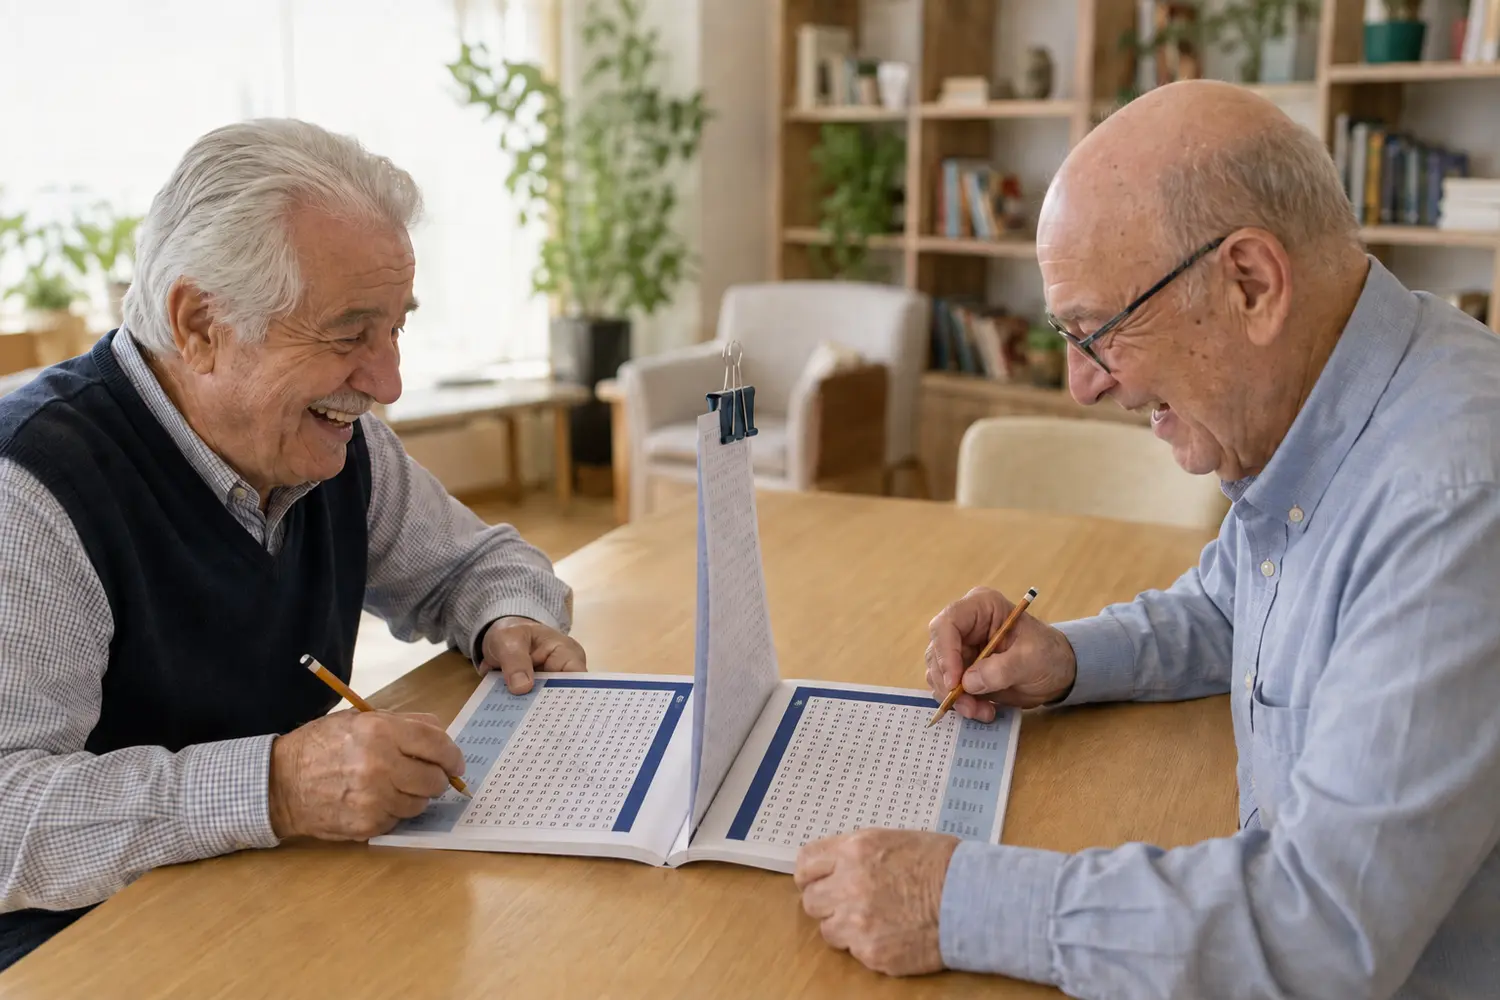
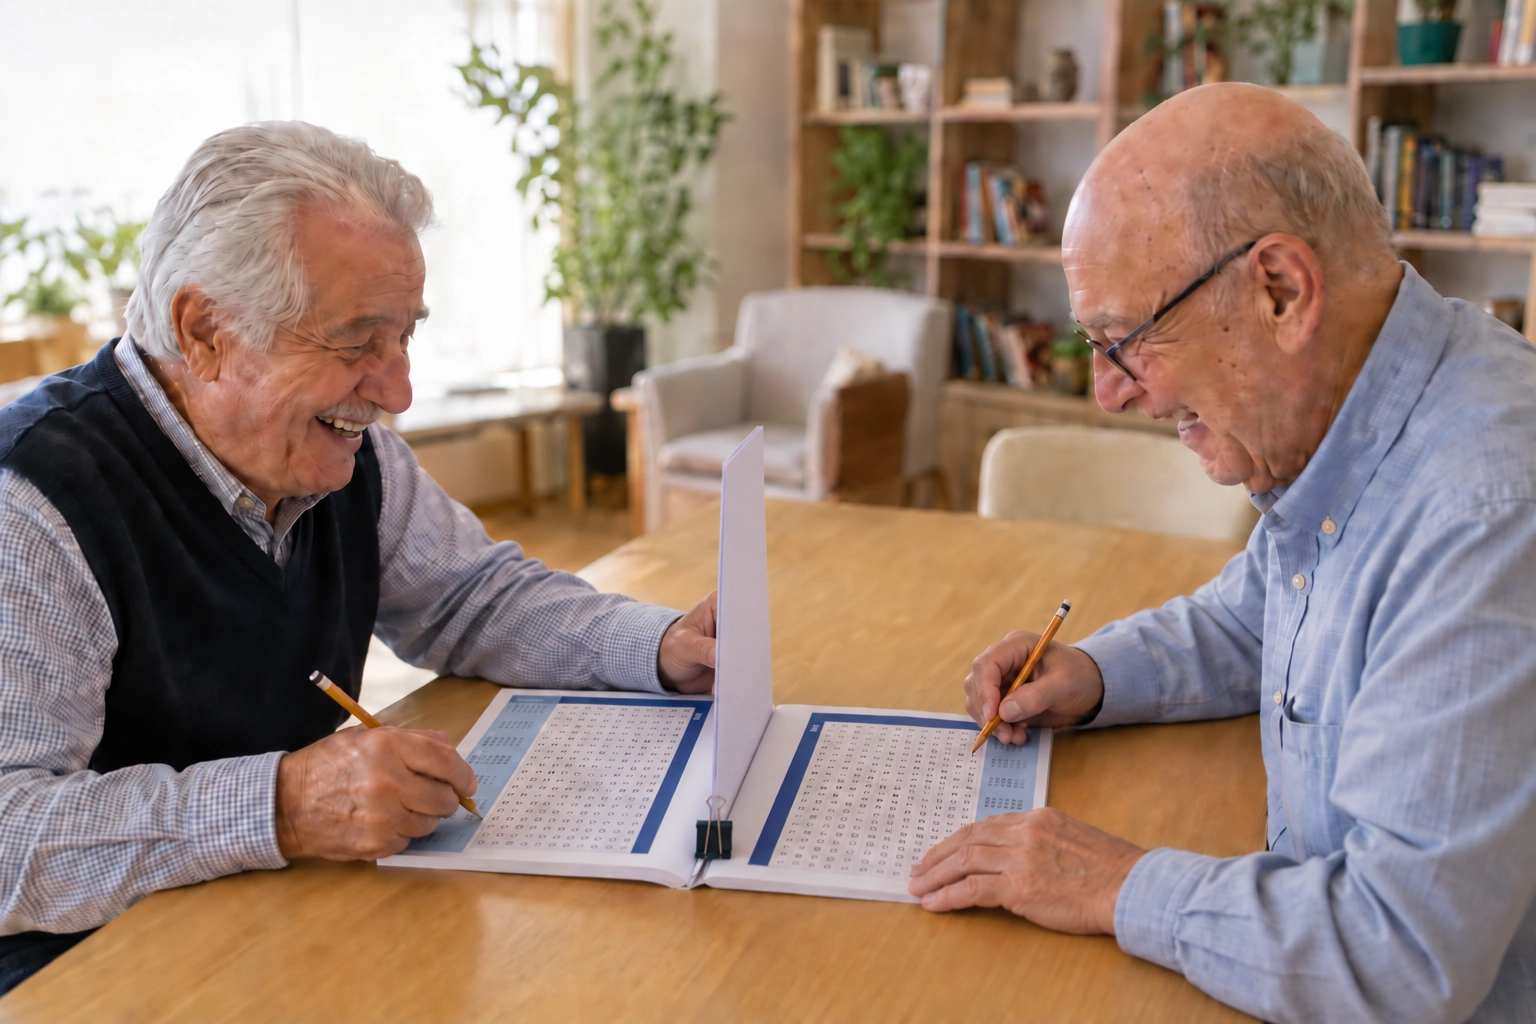
Add files via upload

diff --git a/index.html b/index.html
@@ -5,7 +5,7 @@
   <script src="assets/js/consent.js"></script>
   <meta name="viewport" content="width=device-width, initial-scale=1">
   <meta name="theme-color" content="#0b1d33">
-  <meta name="description" content="Reto a Dos: ocho libros de sopas de letras para jugar cara a cara, con letra grande y dificultad progresiva. Pedidos personalizados para centros, colegios y librerías.">
+  <meta name="description" content="Reto a Dos: nueve libros de sopas de letras para jugar cara a cara, con letra grande y dificultad progresiva. Pedidos personalizados para centros, colegios y librerías.">
   <meta name="author" content="Nora Montalba">
   <meta name="robots" content="index, follow, max-image-preview:large, max-snippet:-1, max-video-preview:-1">
   <meta name="application-name" content="Reto a Dos">
@@ -44,7 +44,7 @@
         "mainEntity": {
           "@type": "ItemList",
           "name": "Libros de la colección Reto a Dos",
-          "numberOfItems": 8,
+          "numberOfItems": 9,
           "itemListElement": [
             {
               "@type": "ListItem",
@@ -146,6 +146,19 @@
                 "description": "Cuarenta sopas de letras sobre capitales y grandes ciudades de los cinco continentes.",
                 "image": "https://retoados.com/assets/images/duelodeciudadesdelmundo.webp",
                 "genre": ["Pasatiempos", "Ciudades del mundo", "Juego familiar"],
+                "inLanguage": "es",
+                "author": {"@id": "https://retoados.com/#nora-montalba"}
+              }
+            },
+            {
+              "@type": "ListItem",
+              "position": 9,
+              "item": {
+                "@type": "Book",
+                "name": "Duelo de Historia",
+                "description": "Cuarenta sopas de letras sobre civilizaciones, personajes, acontecimientos, inventos y épocas históricas.",
+                "image": "https://retoados.com/assets/images/duelodehistoria.webp",
+                "genre": ["Pasatiempos", "Historia", "Juego familiar"],
                 "inLanguage": "es",
                 "author": {"@id": "https://retoados.com/#nora-montalba"}
               }
@@ -260,7 +273,7 @@
       </div>
 
       <div class="book-grid">
-        <button class="book book-has-cover reveal" type="button" data-book-card data-theme="cities" data-title="Duelo de Municipios de España" data-subtitle="Localidades, provincias y comunidades autónomas" data-description="Cuarenta sopas de letras para recorrer España municipio a municipio. Cada duelo reúne localidades de distintas provincias y comunidades autónomas en tableros enfrentados, con letra grande y dificultad progresiva." data-audience="Ideal para familias, viajes, centros educativos, centros de día, residencias y personas que disfrutan descubriendo España." data-status="Próximamente en Amazon" data-cover="assets/images/duelodemunicipiosdeespana.webp" data-cover-alt="Portada del libro Duelo de Municipios de España, de Nora Montalba">
+        <button class="book book-has-cover reveal" type="button" data-book-card data-theme="cities" data-title="Duelo de Municipios de España" data-subtitle="Localidades, provincias y comunidades autónomas" data-description="Cuarenta sopas de letras para recorrer España municipio a municipio. Cada duelo reúne localidades de distintas provincias y comunidades autónomas en tableros enfrentados, con letra grande y dificultad progresiva." data-audience="Ideal para familias, viajes, centros educativos, centros de día, residencias y personas que disfrutan descubriendo España." data-status="Próximamente en Amazon" data-cover="assets/images/duelodemunicipiosdeespana.webp" data-cover-alt="Portada del libro Duelo de Municipios de España, de Nora Montalba" data-inside="assets/images/duelodemunicipespportadilla.webp" data-inside-alt="Portadilla interior de Duelo de Municipios de España">
           <span class="book-cover-frame"><img src="assets/images/duelodemunicipiosdeespana.webp" width="1275" height="1650" loading="lazy" decoding="async" alt="Portada del libro Duelo de Municipios de España, de Nora Montalba"></span>
           <span class="book-product-meta"><span class="book-product-label">Próximamente en Amazon</span><span class="book-product-title">Duelo de Municipios de España</span><span class="book-open">Ver ficha completa <i aria-hidden="true">↗</i></span></span>
         </button>
@@ -270,17 +283,17 @@
           <span class="book-product-meta"><span class="book-product-label">Próximamente en Amazon</span><span class="book-product-title">Duelo de Animales</span><span class="book-open">Ver ficha completa <i aria-hidden="true">↗</i></span></span>
         </button>
 
-        <button class="book book-has-cover reveal" type="button" data-book-card data-theme="myth" data-title="Duelo de Mitología" data-subtitle="Dioses, héroes, criaturas y leyendas" data-description="Cuarenta sopas de letras inspiradas en mitos de distintas culturas. Dioses, héroes, monstruos, lugares legendarios y símbolos clásicos se convierten en desafíos simultáneos para dos jugadores." data-audience="Para familias, lectores curiosos y amantes de la historia, las leyendas y los mundos fantásticos." data-status="Próximamente en Amazon" data-cover="assets/images/duelodemitologia.webp" data-cover-alt="Portada del libro Duelo de Mitología, de Nora Montalba" data-inside="assets/images/duelomitologicoportadilla.webp" data-inside-alt="Portadilla interior de Duelo de Mitología">
+        <button class="book book-has-cover reveal" type="button" data-book-card data-theme="myth" data-title="Duelo de Mitología" data-subtitle="Dioses, héroes, criaturas y leyendas" data-description="Cuarenta sopas de letras inspiradas en mitos de distintas culturas. Dioses, héroes, monstruos, lugares legendarios y símbolos clásicos se convierten en desafíos simultáneos para dos jugadores." data-audience="Para familias, lectores curiosos y amantes de la historia, las leyendas y los mundos fantásticos." data-status="Próximamente en Amazon" data-cover="assets/images/duelodemitologia.webp" data-cover-alt="Portada del libro Duelo de Mitología, de Nora Montalba" data-inside="assets/images/duelodemitologiaportadilla.webp" data-inside-alt="Portadilla interior de Duelo de Mitología">
           <span class="book-cover-frame"><img src="assets/images/duelodemitologia.webp" width="1275" height="1650" loading="lazy" decoding="async" alt="Portada del libro Duelo de Mitología, de Nora Montalba"></span>
           <span class="book-product-meta"><span class="book-product-label">Próximamente en Amazon</span><span class="book-product-title">Duelo de Mitología</span><span class="book-open">Ver ficha completa <i aria-hidden="true">↗</i></span></span>
         </button>
 
-        <button class="book book-has-cover reveal" type="button" data-book-card data-theme="sports" data-title="Duelo de Deportes" data-subtitle="Disciplinas, competiciones y cultura deportiva" data-description="Cuarenta sopas de letras sobre fútbol, baloncesto, atletismo, natación y muchas otras disciplinas. Cada partida reúne vocabulario deportivo en dos tableros enfrentados con dificultad progresiva." data-audience="Ideal para familias, clubes, asociaciones, centros educativos y aficionados al deporte de cualquier edad." data-status="En preparación" data-cover="assets/images/duelodedeportes.webp" data-cover-alt="Portada del libro Duelo de Deportes, de Nora Montalba" data-inside="assets/images/duelodeportesportadilla.webp" data-inside-alt="Portadilla interior de Duelo de Deportes">
+        <button class="book book-has-cover reveal" type="button" data-book-card data-theme="sports" data-title="Duelo de Deportes" data-subtitle="Disciplinas, competiciones y cultura deportiva" data-description="Cuarenta sopas de letras sobre fútbol, baloncesto, atletismo, natación y muchas otras disciplinas. Cada partida reúne vocabulario deportivo en dos tableros enfrentados con dificultad progresiva." data-audience="Ideal para familias, clubes, asociaciones, centros educativos y aficionados al deporte de cualquier edad." data-status="En preparación" data-cover="assets/images/duelodedeportes.webp" data-cover-alt="Portada del libro Duelo de Deportes, de Nora Montalba" data-inside="assets/images/duelodedeportesportadilla.webp" data-inside-alt="Portadilla interior de Duelo de Deportes">
           <span class="book-cover-frame"><img src="assets/images/duelodedeportes.webp" width="1275" height="1650" loading="lazy" decoding="async" alt="Portada del libro Duelo de Deportes, de Nora Montalba"></span>
           <span class="book-product-meta"><span class="book-product-label">En preparación</span><span class="book-product-title">Duelo de Deportes</span><span class="book-open">Ver ficha completa <i aria-hidden="true">↗</i></span></span>
         </button>
 
-        <button class="book book-has-cover reveal" type="button" data-book-card data-theme="music" data-title="Duelo de Grupos Musicales" data-subtitle="Bandas, estilos y cultura musical" data-description="Cuarenta sopas de letras dedicadas a grupos musicales, estilos, instrumentos y vocabulario de la música. Un duelo pensado para recordar, descubrir y compartir canciones de distintas generaciones." data-audience="Para amantes de la música, familias, amigos, centros de día y partidas entre generaciones." data-status="En preparación" data-cover="assets/images/duelodegruposmusicales.webp" data-cover-alt="Portada del libro Duelo de Grupos Musicales, de Nora Montalba">
+        <button class="book book-has-cover reveal" type="button" data-book-card data-theme="music" data-title="Duelo de Grupos Musicales" data-subtitle="Bandas, estilos y cultura musical" data-description="Cuarenta sopas de letras dedicadas a grupos musicales, estilos, instrumentos y vocabulario de la música. Un duelo pensado para recordar, descubrir y compartir canciones de distintas generaciones." data-audience="Para amantes de la música, familias, amigos, centros de día y partidas entre generaciones." data-status="En preparación" data-cover="assets/images/duelodegruposmusicales.webp" data-cover-alt="Portada del libro Duelo de Grupos Musicales, de Nora Montalba" data-inside="assets/images/duelodegruposmusicalesportadilla.webp" data-inside-alt="Portadilla interior de Duelo de Grupos Musicales">
           <span class="book-cover-frame"><img src="assets/images/duelodegruposmusicales.webp" width="1275" height="1650" loading="lazy" decoding="async" alt="Portada del libro Duelo de Grupos Musicales, de Nora Montalba"></span>
           <span class="book-product-meta"><span class="book-product-label">En preparación</span><span class="book-product-title">Duelo de Grupos Musicales</span><span class="book-open">Ver ficha completa <i aria-hidden="true">↗</i></span></span>
         </button>
@@ -290,14 +303,19 @@
           <span class="book-product-meta"><span class="book-product-label">En preparación</span><span class="book-product-title">Duelo de Cine</span><span class="book-open">Ver ficha completa <i aria-hidden="true">↗</i></span></span>
         </button>
 
-        <button class="book book-has-cover reveal" type="button" data-book-card data-theme="geography" data-title="Duelo de Geografía de España" data-subtitle="Provincias, ríos, montañas, costas y paisajes" data-description="Cuarenta sopas de letras para conocer mejor la geografía española. Comunidades autónomas, provincias, ríos, sierras, costas y otros elementos del territorio se convierten en retos para jugar cara a cara." data-audience="Ideal para familias, colegios, viajes, centros de día, residencias y personas curiosas por la geografía de España." data-status="En preparación" data-cover="assets/images/duelodegeografiadeespana.webp" data-cover-alt="Portada del libro Duelo de Geografía de España, de Nora Montalba">
+        <button class="book book-has-cover reveal" type="button" data-book-card data-theme="geography" data-title="Duelo de Geografía de España" data-subtitle="Provincias, ríos, montañas, costas y paisajes" data-description="Cuarenta sopas de letras para conocer mejor la geografía española. Comunidades autónomas, provincias, ríos, sierras, costas y otros elementos del territorio se convierten en retos para jugar cara a cara." data-audience="Ideal para familias, colegios, viajes, centros de día, residencias y personas curiosas por la geografía de España." data-status="En preparación" data-cover="assets/images/duelodegeografiadeespana.webp" data-cover-alt="Portada del libro Duelo de Geografía de España, de Nora Montalba" data-inside="assets/images/duelodegeografiadeespanaportadilla.webp" data-inside-alt="Portadilla interior de Duelo de Geografía de España">
           <span class="book-cover-frame"><img src="assets/images/duelodegeografiadeespana.webp" width="1275" height="1650" loading="lazy" decoding="async" alt="Portada del libro Duelo de Geografía de España, de Nora Montalba"></span>
           <span class="book-product-meta"><span class="book-product-label">En preparación</span><span class="book-product-title">Duelo de Geografía de España</span><span class="book-open">Ver ficha completa <i aria-hidden="true">↗</i></span></span>
         </button>
 
-        <button class="book book-has-cover reveal" type="button" data-book-card data-theme="world" data-title="Duelo de Ciudades del Mundo" data-subtitle="Capitales y grandes ciudades de los cinco continentes" data-description="Cuarenta sopas de letras para viajar por el mundo desde la mesa. Capitales y grandes ciudades de Europa, América, África, Asia y Oceanía forman duelos simultáneos con dificultad progresiva." data-audience="Para familias viajeras, colegios, centros de día, residencias y personas que disfrutan aprendiendo geografía y cultura internacional." data-status="En preparación" data-cover="assets/images/duelodeciudadesdelmundo.webp" data-cover-alt="Portada del libro Duelo de Ciudades del Mundo, de Nora Montalba">
+        <button class="book book-has-cover reveal" type="button" data-book-card data-theme="world" data-title="Duelo de Ciudades del Mundo" data-subtitle="Capitales y grandes ciudades de los cinco continentes" data-description="Cuarenta sopas de letras para viajar por el mundo desde la mesa. Capitales y grandes ciudades de Europa, América, África, Asia y Oceanía forman duelos simultáneos con dificultad progresiva." data-audience="Para familias viajeras, colegios, centros de día, residencias y personas que disfrutan aprendiendo geografía y cultura internacional." data-status="En preparación" data-cover="assets/images/duelodeciudadesdelmundo.webp" data-cover-alt="Portada del libro Duelo de Ciudades del Mundo, de Nora Montalba" data-inside="assets/images/duelodeciudadesmundoportadilla.webp" data-inside-alt="Portadilla interior de Duelo de Ciudades del Mundo">
           <span class="book-cover-frame"><img src="assets/images/duelodeciudadesdelmundo.webp" width="1275" height="1650" loading="lazy" decoding="async" alt="Portada del libro Duelo de Ciudades del Mundo, de Nora Montalba"></span>
           <span class="book-product-meta"><span class="book-product-label">En preparación</span><span class="book-product-title">Duelo de Ciudades del Mundo</span><span class="book-open">Ver ficha completa <i aria-hidden="true">↗</i></span></span>
+        </button>
+
+        <button class="book book-has-cover reveal" type="button" data-book-card data-theme="history" data-title="Duelo de Historia" data-subtitle="Civilizaciones, personajes, acontecimientos e inventos" data-description="Cuarenta sopas de letras para recorrer grandes etapas de la historia. Civilizaciones, personajes, descubrimientos, acontecimientos e inventos se convierten en partidas simultáneas para dos jugadores." data-audience="Ideal para familias, centros educativos, centros de día, residencias y personas que disfrutan recordando y descubriendo la historia." data-status="En preparación" data-cover="assets/images/duelodehistoria.webp" data-cover-alt="Portada del libro Duelo de Historia, de Nora Montalba" data-inside="assets/images/duelodehistoriaportadilla.webp" data-inside-alt="Portadilla interior de Duelo de Historia">
+          <span class="book-cover-frame"><img src="assets/images/duelodehistoria.webp" width="1275" height="1650" loading="lazy" decoding="async" alt="Portada del libro Duelo de Historia, de Nora Montalba"></span>
+          <span class="book-product-meta"><span class="book-product-label">En preparación</span><span class="book-product-title">Duelo de Historia</span><span class="book-open">Ver ficha completa <i aria-hidden="true">↗</i></span></span>
         </button>
       </div>
     </section>
@@ -431,6 +449,10 @@
           <article class="professional-book reveal" data-order-item data-title="Duelo de Ciudades del Mundo">
             <img src="assets/images/duelodeciudadesdelmundo.webp" width="1275" height="1650" loading="lazy" decoding="async" alt="Portada de Duelo de Ciudades del Mundo">
             <div><span>Capitales y grandes ciudades</span><h3>Duelo de Ciudades del Mundo</h3><div class="quantity-stepper"><button type="button" data-qty-minus aria-label="Quitar un ejemplar de Duelo de Ciudades del Mundo">−</button><input type="number" min="0" max="10" value="0" inputmode="numeric" data-qty aria-label="Ejemplares de Duelo de Ciudades del Mundo"><button type="button" data-qty-plus aria-label="Añadir un ejemplar de Duelo de Ciudades del Mundo">+</button></div></div>
+          </article>
+          <article class="professional-book reveal" data-order-item data-title="Duelo de Historia">
+            <img src="assets/images/duelodehistoria.webp" width="1275" height="1650" loading="lazy" decoding="async" alt="Portada de Duelo de Historia">
+            <div><span>Civilizaciones y acontecimientos</span><h3>Duelo de Historia</h3><div class="quantity-stepper"><button type="button" data-qty-minus aria-label="Quitar un ejemplar de Duelo de Historia">−</button><input type="number" min="0" max="10" value="0" inputmode="numeric" data-qty aria-label="Ejemplares de Duelo de Historia"><button type="button" data-qty-plus aria-label="Añadir un ejemplar de Duelo de Historia">+</button></div></div>
           </article>
         </div>
 

diff --git a/assets/css/styles.css b/assets/css/styles.css
@@ -130,6 +130,7 @@ a:focus-visible, button:focus-visible, summary:focus-visible { outline: 3px soli
 [data-theme="cinema"] { --book-accent: #075d70; --book-accent-rgb: 7 93 112; --book-soft: #e2f0f3; }
 [data-theme="geography"] { --book-accent: #087f94; --book-accent-rgb: 8 127 148; --book-soft: #e1f3f5; }
 [data-theme="world"] { --book-accent: #0a5f91; --book-accent-rgb: 10 95 145; --book-soft: #e1eef6; }
+[data-theme="history"] { --book-accent: #8b3e09; --book-accent-rgb: 139 62 9; --book-soft: #f4e8dc; }
 .book { --book-lift: 0px; --book-tilt-x: 0deg; --book-tilt-y: 0deg; --book-glow-x: 50%; --book-glow-y: 38%; position: relative; display: flex; flex-direction: column; min-height: 35rem; padding: 1.6rem; overflow: hidden; border: 0; border-radius: 1.3rem; text-align: left; cursor: pointer; box-shadow: 0 18px 42px rgba(11,29,51,.1); transform-style: preserve-3d; transform-origin: center; will-change: transform; transition: transform 180ms ease-out, box-shadow 220ms ease; }
 .book::after { content: attr(data-word); position: absolute; right: -1.2rem; bottom: 3.7rem; color: rgba(255,255,255,.1); font-size: 6rem; font-weight: 950; letter-spacing: -.08em; text-transform: uppercase; transform: rotate(-90deg); transform-origin: bottom right; pointer-events: none; }
 .book:hover { box-shadow: 0 34px 75px rgb(var(--book-accent-rgb, 11 29 51) / .25); }

diff --git a/README.md b/README.md
@@ -2,7 +2,7 @@
 
 Web estática y responsive de **Reto a Dos — Libros para jugar cara a cara**, una colección de Nora Montalba.
 
-Incluye una sección de pedidos profesionales para colegios, librerías, residencias, centros de día, asociaciones y centros educativos. Permite seleccionar de 0 a 10 unidades de cada uno de los ocho títulos, preparar un pedido combinado de 6 o más ejemplares y abrir Gmail con un correo dirigido a Nora Montalba, el formulario y el resumen ya completados. También permite copiar la solicitud para utilizar cualquier otro correo. La solicitud no se envía automáticamente.
+Incluye una sección de pedidos profesionales para colegios, librerías, residencias, centros de día, asociaciones y centros educativos. Permite seleccionar de 0 a 10 unidades de cada uno de los nueve títulos, preparar un pedido combinado de 6 o más ejemplares y abrir Gmail con un correo dirigido a Nora Montalba, el formulario y el resumen ya completados. También permite copiar la solicitud para utilizar cualquier otro correo. La solicitud no se envía automáticamente.
 
 ## Abrir la web
 
@@ -24,7 +24,7 @@ La página `privacidad.html` reúne la política de privacidad y cookies. Antes 
 
 ## Añadir o modificar libros
 
-Los ocho libros se encuentran en la sección `book-grid` de `index.html`. Cada ficha usa atributos `data-title`, `data-subtitle`, `data-description`, `data-audience` y `data-theme`; el mismo cuadro emergente muestra automáticamente la información del libro seleccionado y adopta su color temático.
+Los nueve libros se encuentran en la sección `book-grid` de `index.html`. Cada ficha usa atributos `data-title`, `data-subtitle`, `data-description`, `data-audience`, `data-theme` y `data-inside`; el mismo cuadro emergente muestra automáticamente la información del libro seleccionado, su portadilla interior y el color temático correspondiente.
 
 Para añadir otro título, duplica uno de los botones con clase `book`, cambia sus textos y asigna un valor `data-theme` con sus variables de color en `assets/css/styles.css`. Los títulos con portada usan además la clase `book-has-cover` y el atributo `data-cover`. Si el libro dispone de portadilla interior, añádela en formato WebP mediante `data-inside` y describe la imagen con `data-inside-alt`.
 
